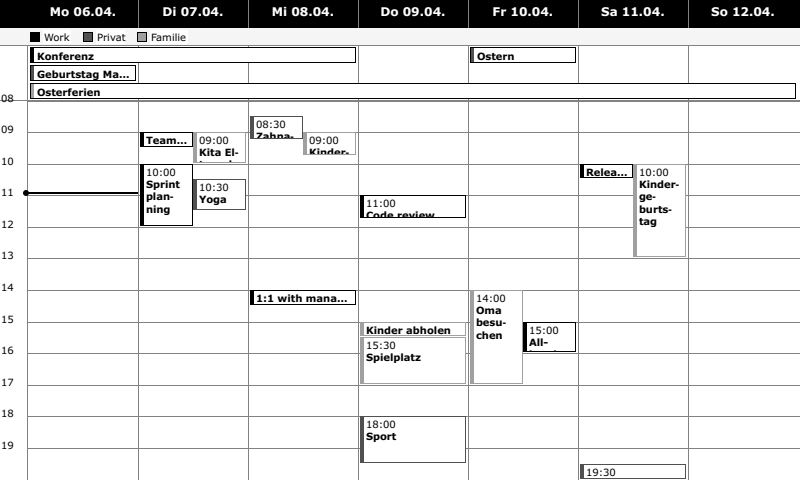
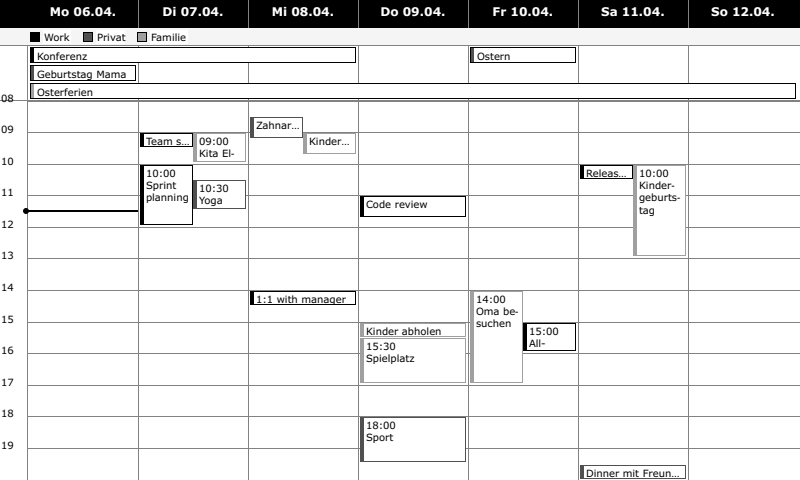
cleaner rendering based on explicit height of event

diff --git a/app/templates/calendar_weasy.html b/app/templates/calendar_weasy.html
@@ -118,7 +118,7 @@ body {
               width:{{ ev.width }}px;height:{{ ev.height }}px;
               background:white;border:1px solid {{ ev.fill_css }};overflow:hidden;">
     <div style="position:absolute;left:0;top:0;width:3px;height:100%;background:{{ ev.fill_css }};"></div>
-    <div style="position:absolute;left:5px;top:1px;right:2px;font-size:{{ event_font_size }}px;overflow:hidden;">
+    <div style="margin-left:5px;margin-top:1px;margin-right:2px;height:{{ ev.height - 3 }}px;font-size:{{ event_font_size }}px;overflow:hidden;">
       {% if ev.short %}
         <span style="display:block;font-weight:{{ event_bold_css }};white-space:nowrap;
                      overflow:hidden;text-overflow:ellipsis;">{{ ev.summary }}</span>

diff --git a/app/renderer.py b/app/renderer.py
@@ -18,7 +18,9 @@ from datetime import date, datetime, timedelta
 from pathlib import Path
 
 import jinja2
-from PIL import Image
+import pypdfium2
+import weasyprint
+from PIL import Image, ImageDraw, ImageFont
 
 from caldav_client import CalEvent
 from scheduling import (
@@ -149,16 +151,11 @@ def _font_src(bold: bool = False) -> str:
 
 def _measure_text(text: str, size: int = 10, bold: bool = False) -> int:
     """Pixel width of text using Pillow (matches renderer.py legend layout)."""
-    try:
-        from PIL import ImageDraw, ImageFont
-        from PIL import Image as _Image
-        p = _font_path(bold=bold)
-        font = ImageFont.truetype(p, size) if p else ImageFont.load_default()
-        _img  = _Image.new("L", (1, 1))
-        _draw = ImageDraw.Draw(_img)
-        return int(_draw.textlength(text, font=font))
-    except Exception:
-        return len(text) * 6
+    p = _font_path(bold=bold)
+    font = ImageFont.truetype(p, size) if p else ImageFont.load_default()
+    img  = Image.new("L", (1, 1))
+    draw = ImageDraw.Draw(img)
+    return int(draw.textlength(text, font=font))
 
 
 # ── Template context builder ──────────────────────────────────────────────────
@@ -172,7 +169,7 @@ def _build_context(
     timed_events: dict[int, list[CalEvent]],
     allday_assignments: list[tuple[CalEvent, int, int, int]],
     event_font_size: int = 10,
-    event_bold: bool = True,
+    event_bold: bool = False,
 ) -> dict:
     W = layout.width
     H = layout.height
@@ -263,15 +260,14 @@ def _build_context(
             vis_end    = min(end_frac,   layout.time_end_hour)
             if vis_end <= vis_start:
                 continue
-            y0      = layout.grid_top + int((vis_start - layout.time_start_hour) * layout.px_per_hour)
-            y1      = layout.grid_top + int((vis_end   - layout.time_start_hour) * layout.px_per_hour) - 1
-            if y1 - y0 < EVENT_MIN_H:
-                y1 = y0 + EVENT_MIN_H
-            block_h = y1 - y0
+            y0         = layout.grid_top + int((vis_start - layout.time_start_hour) * layout.px_per_hour) + 1
+            y1_natural = layout.grid_top + int((vis_end   - layout.time_start_hour) * layout.px_per_hour) - 2
+            y1         = max(y1_natural, y0 + EVENT_MIN_H)
+            block_h    = y1 - y0
             if block_h < 12:
                 continue
 
-            short    = (ev.end - ev.start).total_seconds() <= 1800
+            short    = block_h < (event_font_size * 2 + 4)
             fill_css = _grey_css(fill_map.get(ev.color, BLACK))
             timed_ctx.append({
                 "x0":       x0,
@@ -321,9 +317,6 @@ def _build_context(
 # ── WeasyPrint → PIL ──────────────────────────────────────────────────────────
 
 def _weasy_to_pil(html: str, width: int, height: int) -> Image.Image:
-    import weasyprint
-    import pypdfium2
-
     pdf_bytes = weasyprint.HTML(string=html, base_url=str(_TEMPLATE_DIR)).write_pdf()
     pdf = pypdfium2.PdfDocument(pdf_bytes)
     bitmap = pdf[0].render(scale=96 / 72)
@@ -341,7 +334,7 @@ def render_days(
     time_start_hour: int = 8,
     today_highlight: bool = False,
     event_font_size: int = 10,
-    event_bold: bool = True,
+    event_bold: bool = False,
 ) -> Image.Image:
     """
     Render a calendar image using WeasyPrint (HTML/CSS → PDF → PNG → 1-bit).
